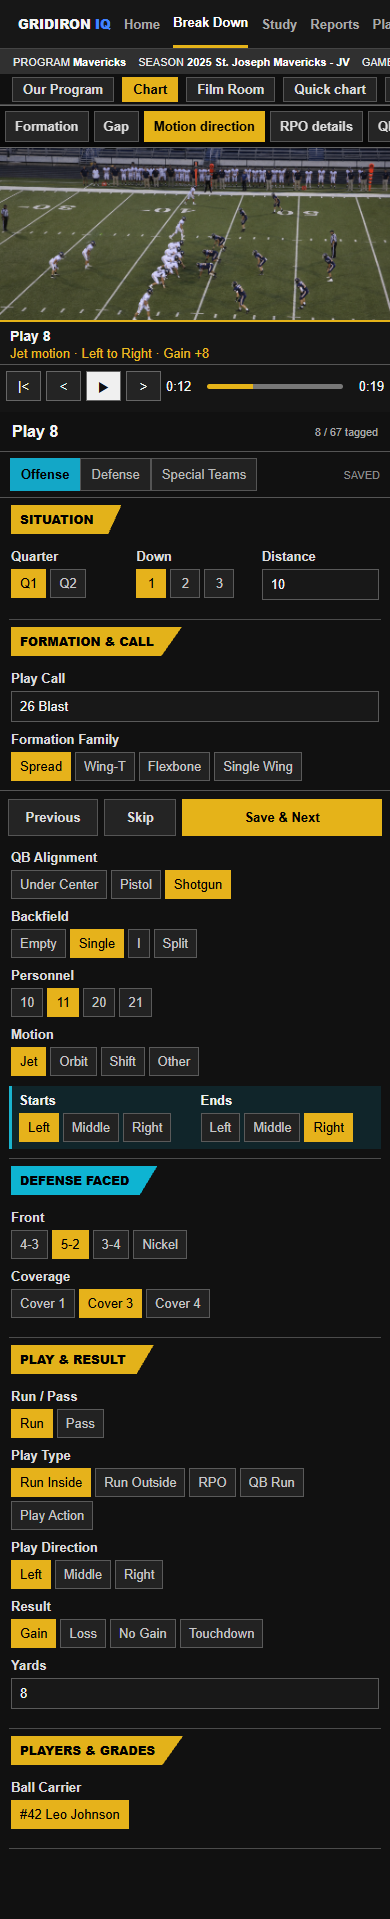
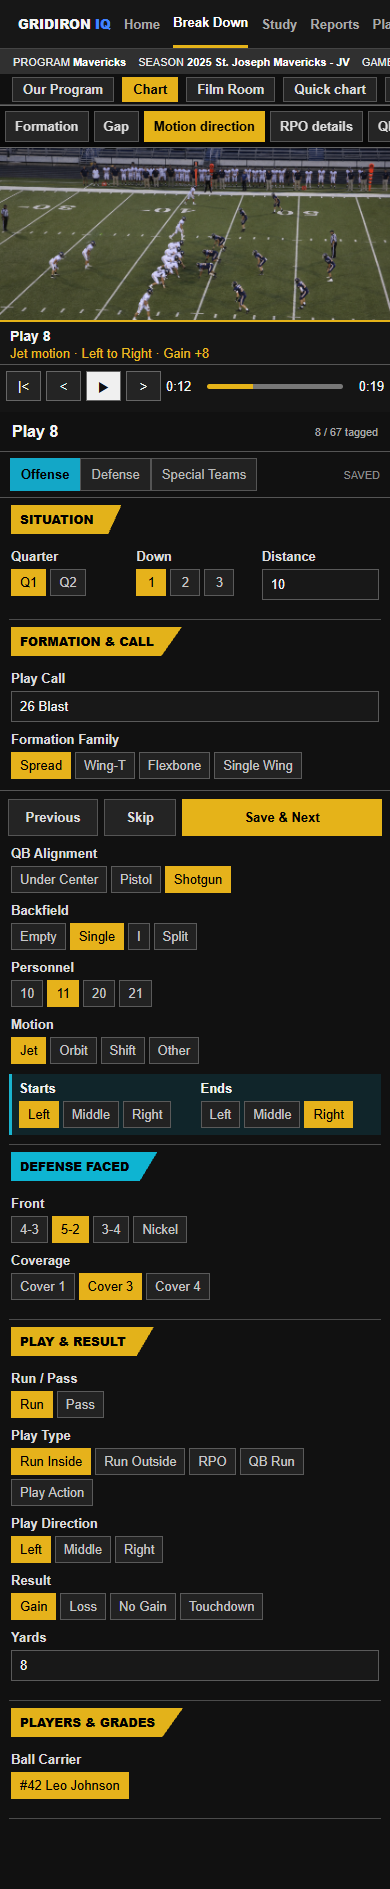
Approve Break Down charting comp and build contract

diff --git a/design-comps/breakdown-charting-2026-09-27/index.html b/design-comps/breakdown-charting-2026-09-27/index.html
@@ -57,7 +57,7 @@
     .field { margin:7px 0 10px; }
     .field-label { display:flex; justify-content:space-between; align-items:center; gap:8px; color:#ddd; font-weight:700; margin-bottom:5px; }
     .chips { display:flex; flex-wrap:wrap; gap:4px; }
-    .chip { background:#222; border:1px solid #5a5a5a; color:#c7c7c7; padding:5px 8px; min-height:29px; line-height:17px; }
+    .chip { background:#222; border:1px solid #5a5a5a; color:#c7c7c7; padding:4px 8px; min-height:27px; line-height:17px; }
     .chip.on { background:#e6b21b; border-color:#e6b21b; color:#000; }
     .chip.cyan-on { background:#11a7c5; border-color:#11a7c5; color:#000; }
     .select-line { display:grid; grid-template-columns:repeat(3,minmax(0,1fr)); gap:8px; }

diff --git a/design-comps/breakdown-charting-2026-09-27/RATIONALE.md b/design-comps/breakdown-charting-2026-09-27/RATIONALE.md
@@ -1,31 +1,31 @@
 # Break Down charting additions - review comp (2026-09-27)
 
-Status: proposal only. The coach has not approved the field design or vocabulary. This comp changes no production code, stored charting data, analytics, or installer.
+Status: coach-approved for implementation on 2026-09-28, including inline disclosure and compact desktop chips. The production fields, analytics, installer, and installed smoke are not complete. The build contract is in `GRIDIRON-IQ-PLAN-V2.md` under "Approved Break Down charting comp."
 
 Design requirement: do not show "optional" subtext beside charting fields. Blank values remain valid where the data model permits them; the label does not need to announce that.
 
-Open `index.html` and switch between Formation, Gap, Motion direction, RPO details, and QB run. Those floating tabs are review shortcuts only, not a proposed charting step. In the deck, choosing a Motion chip reveals its path immediately below the chips; choosing Run, RPO, or QB Run in Play Type reveals that play's detail directly below the choice. Neither action scrolls the deck. The existing Chart workspace and section order are preserved. A cyan inset highlights each proposed field group; the rest of the deck provides placement and density context. The game/play values are illustrative, not a claim about the canonical season. The film is a repository asset used as a visual fixture. On-screen explainer prose was removed at the coach's request; rationale remains here.
+Open `index.html` and switch between Formation, Gap, Motion direction, RPO details, and QB run. Those floating tabs are review shortcuts only, not a charting step. In the deck, choosing a Motion chip reveals its path immediately below the chips; choosing Run, RPO, or QB Run in Play Type reveals that play's detail directly below the choice. Neither action scrolls the deck. The existing Chart workspace and section order are preserved. A cyan inset highlights each approved field group; the rest of the deck provides placement and density context. The game/play values are illustrative, not a claim about the canonical season. The film is a repository asset used as a visual fixture. On-screen explainer prose was removed at the coach's request; rationale remains here.
 
-## Placement and behavior proposed
+## Approved placement and behavior
 
-- Formation & Call replaces the vague Our Offensive Look heading in this comp. Formation Family (e.g. Spread) and Receiver Set (e.g. 3x1) are separate selections. The film summary displays both together. QB Alignment, Backfield, Personnel, Motion, and Play Call remain distinct rows. The numeric set choices are receiver distributions, not package names or bunch/stack modifiers. The exact family and set vocabularies still need coach review.
+- Formation & Call replaces the vague Our Offensive Look heading in this comp. Formation Family (e.g. Spread) and Receiver Set (e.g. 3x1) are separate selections. The film summary displays both together. QB Alignment, Backfield, Personnel, Motion, and Play Call remain distinct rows. The numeric set choices are receiver distributions, not package names or bunch/stack modifiers. Shown choices are v1 examples, not a license to delete existing coach library choices.
 - Gap belongs in Play & Result beside Play Type and Play Direction. It records the actual lane hit, not the called gap. A/B/C/D are paired with left/right, plus Other lane. It is optional and does not change yardage or run classification.
 - Motion path belongs directly after Motion in Formation & Call. Selecting a Motion type reveals Starts and Ends side by side in place, with no trip to the review tabs or scroll jump. Start and end are separately optional; both use the offense's left/middle/right perspective. Motion type remains its own tag.
-- RPO details appear only for an RPO play. Read defender and decision are separate from the existing Play Type and Run/Pass result. End/Apex/Box/Other and Give/Keep/Throw are provisional vocabulary.
+- RPO details appear only for an RPO play. Read defender and decision are separate from the existing Play Type and Run/Pass result. End/Apex/Box/Other and Give/Keep/Throw are the approved v1 choices shown here, not inferred from old plays.
 - The film detail line echoes the new selection as soon as the view changes, so the coach can verify the tag without scrolling back through the deck. A defender jersey number is an optional RPO detail when it is visible on film; no number is inferred.
-- QB run is a distinct review state with Designed, Scramble, and RPO keeper choices, plus the same optional Gap vocabulary. It charts intent separately from Run/Pass and the QB as ball carrier. This expands the comp only; its separate future roadmap priority has not been moved into implementation scope.
-- New chips keep the current deck's text size and use compact vertical padding. There is no separate wizard or modal and no change to Save & Next.
+- QB run is a distinct review state with Designed, Scramble, and RPO keeper choices, plus the same optional Gap vocabulary. It charts intent separately from Run/Pass and the QB as ball carrier. It is now part of the approved charting implementation checkpoint.
+- Desktop chips keep the current deck's text size and horizontal padding while reducing vertical padding from 5px to 4px (29px to 27px in the comp). Coarse-pointer controls retain their larger touch target in production. There is no separate wizard or modal and no change to Save & Next.
 
-## Coach decisions before implementation
+## Implementation boundaries
 
-1. Is left/right A-D plus Other lane the right gap-hit vocabulary? Should an outside/edge lane be named instead of D or Other?
-2. Should motion path use left/middle/right, a precise origin/destination (e.g. wide/slot/backfield), or both? Should it capture who moved?
-3. For RPO, which read types and decisions do your coaches actually chart? Should the read defender identify a player, a defender role, or both?
-4. Is the placement and density usable in the live deck at desktop and narrower widths?
-5. Should QB run classification join this implementation checkpoint, and are Designed, Scramble, and RPO keeper the right mutually exclusive choices?
-6. Which formation families and receiver sets should be in the default library, and where should modifiers such as Bunch, Unbalanced, Goal Line, and Victory live?
+The choices visible in the comp are the initial UI contract. Do not silently
+reclassify existing Formation values such as Trips, Bunch, Goal Line, or Victory;
+the current stored Formation field mixes different kinds of look. Preserve and
+show those exact values on historical plays until the coach explicitly retags
+them. This comp does not approve a data migration or a universal formation
+taxonomy. Keep the library extensible without crowding this first view.
 
-Implementation, if approved, needs owned tag definitions, editing/clear semantics, Film Room columns and detail, reporting/export handling, and focused tests. The production Formation field currently mixes family, set, and package concepts; this comp does not change that model or migrate data. No historical plays should be inferred or backfilled.
+Implementation needs owned tag definitions, editing/clear semantics, Film Room columns and detail, reporting/export handling, and focused tests. No historical plays should be inferred or backfilled.
 
 ## Competitor references
 
@@ -36,4 +36,4 @@ Implementation, if approved, needs owned tag definitions, editing/clear semantic
 
 ## Visual check
 
-The five views were captured at 1440x900 and 390x844. Direct chip-to-detail flows were also captured for Motion at both widths. Each view shows its own proposed group, the film asset loads, and neither viewport has horizontal document overflow. The screenshots are review evidence, not production acceptance.
+The five views were captured at 1440x900 and 390x844 with 27px comp chips. Direct chip-to-detail flows were also captured for Motion at both widths. Each view shows its own proposed group, the film asset loads, and neither viewport has horizontal document overflow. The screenshots are review evidence, not production acceptance.

diff --git a/GRIDIRON-IQ-PLAN-V2.md b/GRIDIRON-IQ-PLAN-V2.md
@@ -80,14 +80,14 @@ findings open in `docs/OPEN-DEFECTS.md` until verified.
    save failure before adding choices. Tighten desktop chip padding and
    between-section gaps without shrinking type. Make custom Play Call and
    built-in Play Type independently collapsible, retaining a clear selected
-   state. Add optional run-gap hit, motion start/end direction, and RPO details
-   as first-class charting fields, without inferring values for old plays. Define
-   the RPO detail vocabulary with the coach before implementation; play type
-   `RPO` and Run/Pass alone do not capture the full read and decision. Carry
-   each new field through reporting and export where applicable.
-   **Status 2026-09-24:** library save, spacing and the two folds are repaired
-   in source (installed smoke pending); run-gap, motion-direction, and RPO-detail
-   fields are not built.
+   state. Add the approved Formation Family / Receiver Set split, actual run
+   Gap, motion start/end, RPO read/decision, and QB run classification as
+   explicit charting fields. Do not infer values for historical plays. Carry
+   new fields through Film Room, export, and relevant reporting.
+   **Status 2026-09-28:** library save, spacing, and the two folds are repaired
+   in source (installed smoke pending). The charting-additions comp at
+   `design-comps/breakdown-charting-2026-09-27/` is coach-approved, including
+   inline disclosure and shorter desktop chips; its new fields are not built.
 3. **Film Room.** Review a video-first comp with the editable breakdown table
    docked beneath the video by default, plus movable/resizable video and table
    arrangements and a usable reset. Keep playback, selection, table editing,
@@ -102,6 +102,77 @@ one integrated full gate and installed smoke covering all three packages on a
 new candidate. No package or production acceptance is implied by the plan.
 Broader visualization work remains lower priority and should accompany a
 substantive analysis feature rather than become a standalone redesign.
+
+### Approved Break Down charting comp - build contract (2026-09-28)
+
+Formal status: `design-approvals/breakdown-charting/manifest.json` is
+`COMP_APPROVED`; production is still `DRAFT`. The visual contract is
+`design-comps/breakdown-charting-2026-09-27/index.html` and `RATIONALE.md`
+beside it. The five comp tabs are review shortcuts, not product
+navigation. The actual coach action is local: selecting a Motion chip opens
+Starts and Ends side by side immediately below it; selecting Run Inside/Outside,
+RPO, or QB Run opens its details immediately below Play Type. These disclosures
+do not jump the deck or require a trip to the top. Keep existing Chart/Film Room
+layout and Save & Next. Use the comp's field order and compact grouping on
+desktop and narrow screens, but do not copy its illustrative film or game data.
+
+1. **Owned tags and semantics.** Add explicit Formation Family and Receiver Set
+   values (the comp shows Spread + 3x1), leaving QB Alignment, Backfield,
+   Strength, Personnel, Motion type, and Play Call separate. Current `formation`
+   is multi-valued and mixes family, set, and package names; do not simply
+   rename that key, split old strings by guess, overwrite old tags, or make
+   historical values disappear from the editor. Show the original charted
+   Formation on an old play until the coach explicitly retags it; reopening or
+   saving another field must preserve that value. Only an explicit retag may
+   replace it, as one undoable write. Keep the existing Motion choice Trade and
+   coach-defined library entries available; the comp's chips are example
+   defaults, not a deletion list. New plays write the separated structure,
+   not a new mixed Formation value. Document the exact transition rule before
+   any stored-data rewrite; none is authorized by this comp.
+2. **New play details.** Gap means the actual lane hit, with Left/Right A-D and
+   Other lane, not the called gap or the broad play direction. Motion type and
+   Starts/Ends are separate, using offensive left/middle/right. RPO stores read
+   role (End/Apex/Box/Other), a charted defender jersey when known, and
+   decision (Give/Keep/Throw) separately from Play Type and Run/Pass. QB Run
+   stores Designed/Scramble/RPO keeper separately from ball carrier and yardage;
+   the QB Run Play Type can coexist with RPO when the coach explicitly selects
+   both. Do not infer any of these from the call, outcome, player, or existing
+   tags. Blank remains uncharted, not a negative or zero event.
+3. **Editing contract.** The deck and Film Room edit the same owned fields.
+   Select, change, clear, save/reopen, undo/redo, unit switch, and perspective
+   switch must agree. Removing a trigger must not silently discard populated
+   child details or leave hidden stale values; confirm the clear and make it one
+   undoable write. A contradictory RPO decision and Run/Pass needs a visible
+   correction path, not a silent overwrite. Keep the current play-unit owner
+   and the charting API as the only write path.
+4. **Density and accessibility.** The approved comp reduces chip height from
+   29px to 27px using 4px rather than 5px vertical padding. Apply that visual
+   target to desktop Chart chips by tightening height/padding, not font size or
+   horizontal padding; preserve the app's current type scale and the existing
+   coarse-pointer 44px minimum. Remove visible `optional` subtext from the
+   charting deck and do not add explainer prose to the form. Keep labels,
+   selected/hover/focus states, keyboard access, and the sticky Save & Next
+   clear and usable.
+5. **Downstream contract.** Add the fields to Film Room detail, relevant editable
+   columns, CSV import/export, and the shared analytics registry without changing
+   established yardage or success formulas. Add focused, film-linked tendencies
+   only where the fields add value: offensive/defensive scouting, season rollup,
+   and run-gap/QB-run/RPO cohorts. State each eligible sample and keep missing
+   charting distinct; do not count old mixed Formation values as explicit Family
+   or Receiver Set selections. Use the current report/export framework; do not
+   recompose every tab or invent a separate report engine. A report/export
+   section built for a new field must match its on-screen cohort and exact
+   contributing film.
+6. **Delivery checkpoints.** First build the tag ownership, inline deck behavior,
+   and preservation of old Formation values. Then wire Film Room and CSV
+   round-trips. Then add bounded analytics/report/export surfaces. Focused
+   harnesses must cover trigger-to-disclosure clicks (without the comp tabs),
+   keyboard and undo, old-play preservation, import/export, and all three
+   units/perspectives. Verify populated captures at 1440, 1280, and 390 widths
+   and no overlap or overflow. Use read-only copies of the canonical 2025 JV
+   data for parity; do not edit coach data. Run the full gate once after focused
+   work, then package for a separate installed smoke. Source or comp approval
+   is not installed acceptance.
 
 ## Home Accepted Baseline - Current Production Rejected (2026-09-10)
 
@@ -1041,8 +1112,10 @@ desktop Reports composition pass. They should reuse the canonical analytics
 registry, stored charting data, and film-navigation service rather than create
 parallel formulas or report-only data models.
 
-**Coach-prioritized future review (2026-09-22; updated 2026-09-23):** This is a shortlist,
-not approval to change the current report compositions or charting schema.
+**Coach-prioritized follow-ons (2026-09-22; updated 2026-09-28):** Items 2-4 and
+7 now have an approved Break Down charting comp and build contract above; they
+are not yet built or approved in an installed app. The remaining items are a
+shortlist, not approval to change the current report compositions or schema.
 Keep the shared Reports strip and unaffected tabs intact; design and verify
 only the charting and report surfaces each item actually touches.
 
